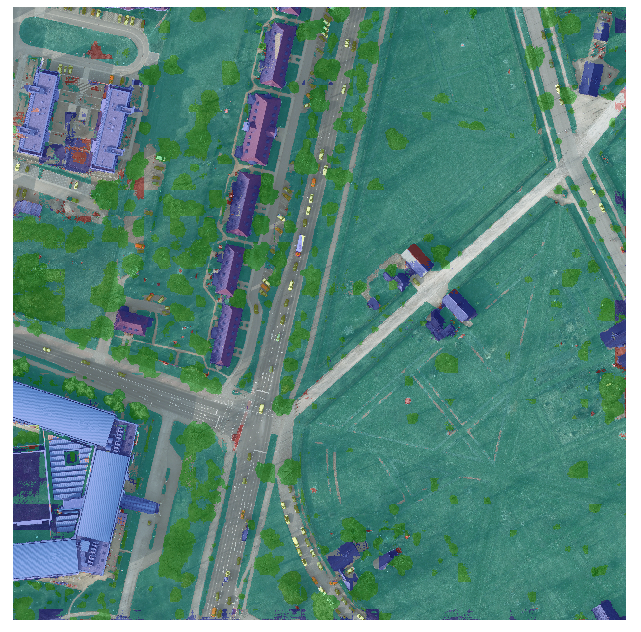
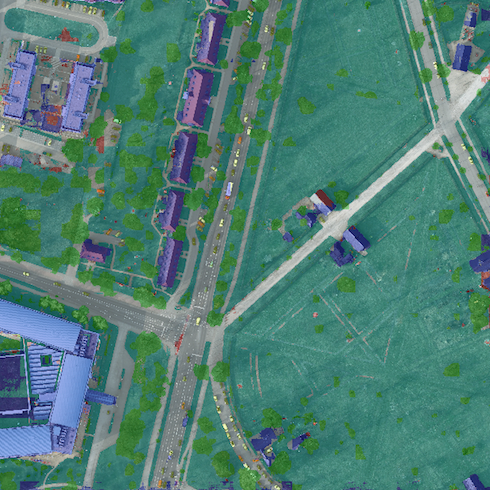
Update prediction images

diff --git a/README.md b/README.md
@@ -251,7 +251,7 @@ Details:
 
 Below are sample predictions and eval metrics.
 
-![SpaceNet Vegas Buildings in QGIS](img/spacenet-vegas-buildings-qgis.jpg)
+![SpaceNet Vegas Buildings in QGIS](img/spacenet-vegas-buildings.png)
 
 <details><summary>Eval Metrics</summary>
 
@@ -472,8 +472,9 @@ Details:
 * Download the [processed labels](https://github.com/azavea/raster-vision-data/releases/download/v0.0.1/cowc-potsdam-labels.zip) and unzip. These files were generated from the [COWC car detection dataset](https://gdo152.llnl.gov/cowc/) using scripts in [cowc.data](cowc/data/). TODO: make a Jupyter notebook showing how to process the raw labels.
 * The `processed_uri` should point to the labels directory created above. It should contain a `labels/all` subdirectory.
 
-todo:
-* sample predictions and eval metrics
+Below are sample predictions and eval metrics.
+
+![COWC Potsdam predictions](img/cowc-potsdam.png)
 
 ### xView Vehicle Object Detection
 
@@ -485,8 +486,9 @@ Details:
 * Run the [xview-vehicles-data-prep.ipynb](notebooks/xview/xview-vehicles-data-prep.ipynb) Jupyter notebook, passing in the `raw_uri` from above in the first cell.
 * The `processed_uri` should point to the processed data generated by the notebook.
 
-todo:
-* sample predictions and eval metrics
+Below are sample predictions and eval metrics.
+
+![xView predictions](img/xview.png)
 
 ## Model Zoo
 
